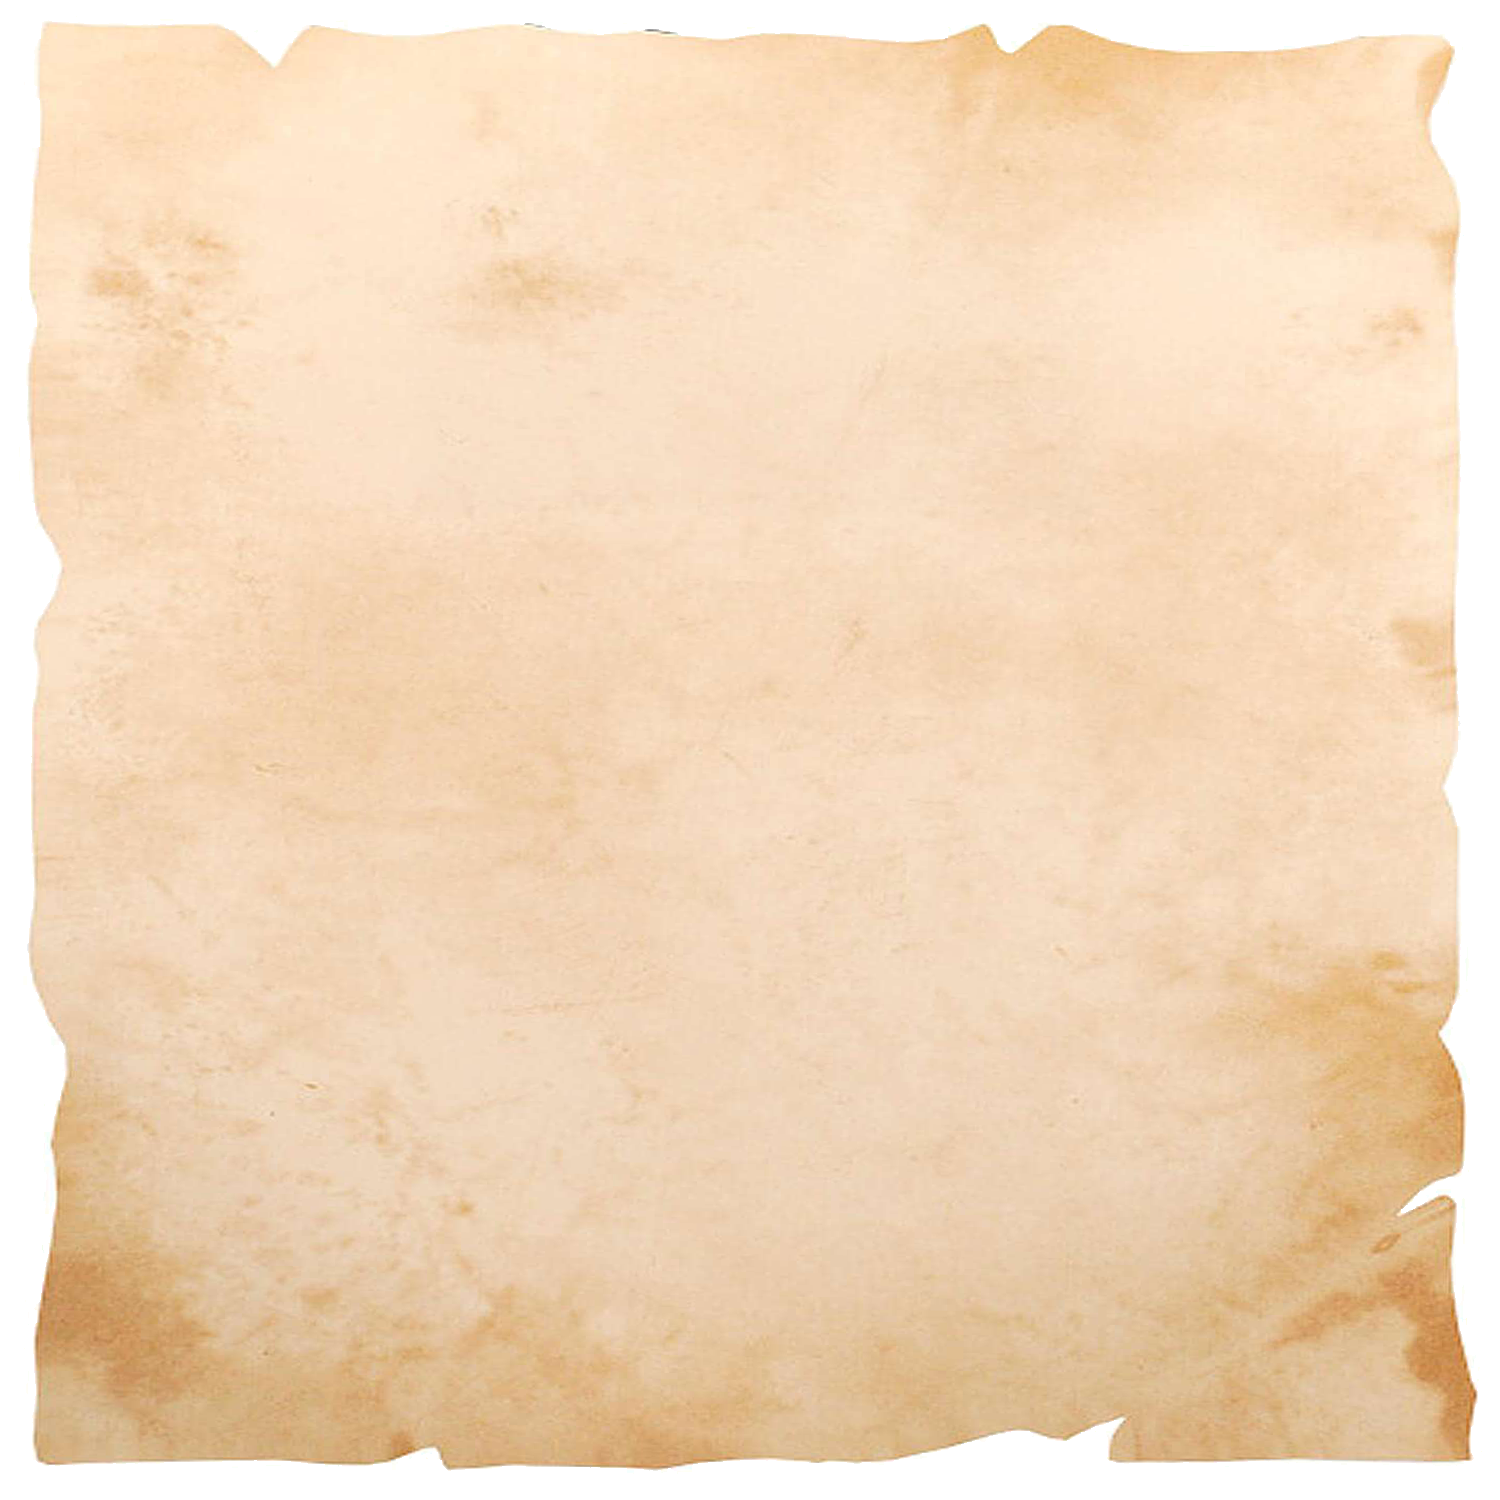
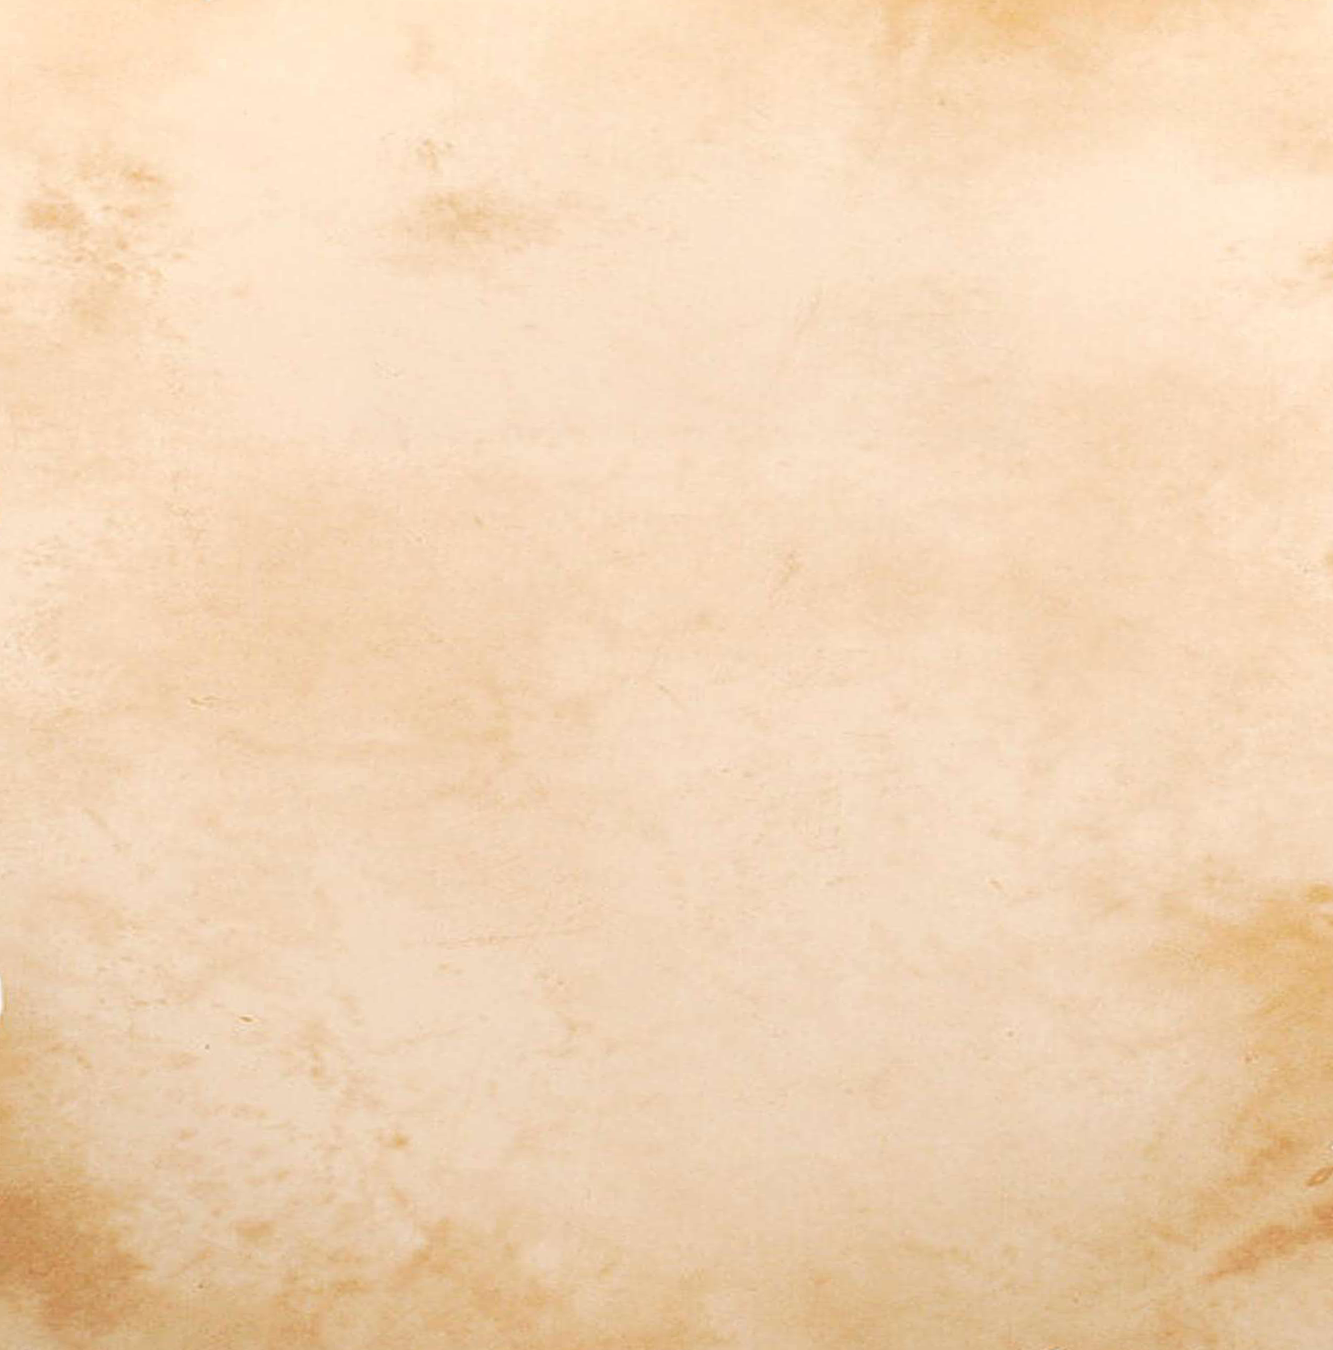
a

diff --git a/wedding.html b/wedding.html
@@ -26,7 +26,7 @@
       </form>
     </div>
     <div class="BOversion">
-      Version 2.4: fixing bg<br />
+      Version 2.5: fixed pics display<br />
       For best performance, please avoid using Internet Explorer
     </div>
     <!--bouncing date, parallax scroll-->
@@ -137,10 +137,10 @@
       </div>
       <div class="memoriesContainer">
 
-        <div class="memoriesImgCell" data-aos="fade" data-aos-duration="600" data-aos-anchor-placement="top-bottom">
+        <div id="pic1" class="memoriesImgCell" data-aos="fade" data-aos-duration="600" data-aos-anchor-placement="top-bottom">
           <img src="pics/y1.jpg" class="responsive-image">
         </div>
-        <div class="memoriesTextCell" data-aos="fade" data-aos-duration="600" data-aos-anchor-placement="top-bottom">
+        <div id="poem1" class="memoriesTextCell" data-aos="fade" data-aos-duration="600" data-aos-anchor-placement="top-bottom">
           <div class="memoriesPoem">
             19, wide-eyed, naïve in love<br />Holding hands we leapt in faith<br />To love and to be loved by
             you<br />A glimpse of love much greater
@@ -148,38 +148,41 @@
         </div>
 
 
-        <div class="memoriesImgCell" data-aos="fade" data-aos-duration="600" data-aos-anchor-placement="top-bottom">
+        <div id="pic2" class="memoriesImgCell" data-aos="fade" data-aos-duration="600" data-aos-anchor-placement="top-bottom">
           <img src="pics/y3.jpg" class="responsive-image">
         </div>
-        <div class="memoriesTextCell" data-aos="fade" data-aos-duration="600" data-aos-anchor-placement="top-bottom">
+        <div id="poem2" class="memoriesTextCell" data-aos="fade" data-aos-duration="600" data-aos-anchor-placement="top-bottom">
           <div class="memoriesPoem">
             But our sinful flesh betrays us<br />Selfish love's not love at all<br />For can two broken lives
             expect<br />Unbrokenness together?
           </div>
         </div>
 
-        <div class="memoriesImgCell" data-aos="fade" data-aos-duration="600" data-aos-anchor-placement="top-bottom">
+        <div id="pic3" class="memoriesImgCell" data-aos="fade" data-aos-duration="600" data-aos-anchor-placement="top-bottom">
           <img src="pics/y4.jpg" class="responsive-image">
         </div>
-        <div class="memoriesTextCell" data-aos="fade" data-aos-duration="600" data-aos-anchor-placement="top-bottom">
+        <div id="poem3" class="memoriesTextCell" data-aos="fade" data-aos-duration="600" data-aos-anchor-placement="top-bottom">
           <div class="memoriesPoem">
             So at the cross on bended knee<br />Our lives in full surrender<br />I cannot give you perfect
             love<br />Only point to One who is
           </div>
         </div>
 
-        <div class="memoriesImgCell" data-aos="fade" data-aos-duration="600" data-aos-anchor-placement="top-bottom">
+        <div id="pic4" class="memoriesImgCell" data-aos="fade" data-aos-duration="600" data-aos-anchor-placement="top-bottom">
           <img src="pics/y4b.jpg" class="responsive-image">
         </div>
-        <div class="memoriesTextCell" data-aos="fade" data-aos-duration="600" data-aos-anchor-placement="top-bottom">
+        <div id="poem4" class="memoriesTextCell" data-aos="fade" data-aos-duration="600" data-aos-anchor-placement="top-bottom">
           <div class="memoriesPoem">
             To love you as Christ loves the church<br />We’ll run this race together<br />We don’t know what
             the future holds<br />But do know He who holds it
           </div>
         </div>
 
-        <div class="memoriesImgCell" data-aos="fade" data-aos-duration="600" data-aos-anchor-placement="top-bottom">
+        <div id="pic5" class="memoriesImgCell" data-aos="fade" data-aos-duration="600" data-aos-anchor-placement="top-bottom">
           <img src="pics/y5.jpg" class="responsive-image">
+        </div>
+
+        <div id="pic6" data-aos="fade" data-aos-duration="600" data-aos-anchor-placement="top-bottom">
         </div>
       </div>
     </div>

diff --git a/stylesheet.css b/stylesheet.css
@@ -451,7 +451,7 @@ h3 {
   justify-content: center;
   background-image: url("pics/parchment_square.png");
   background-position: center;
-  background-size: 38vw 38vw;
+  background-size: cover;
 }
 
 .memoriesPoem {
@@ -472,6 +472,9 @@ h3 {
   margin: 0;
   border-style: none;
   overflow: hidden;
+  display: flex;
+  align-items: center;
+  justify-content: center;
 }
 
 .memoriesImgCell img {
@@ -675,28 +678,44 @@ h3 {
     padding: 3px 1vw;
   }
 
+  .memoriesContainer {
+    background-image: url("pics/parchment_square.png");
+    background-position: center;
+    background-size: cover;
+  }
+
+  #pic1 {-webkit-order: 1; order: 1; }
+  #pic2 {-webkit-order: 2; order: 2; }
+  #pic3 {-webkit-order: 3; order: 3; }
+  #pic4 {-webkit-order: 8; order: 8; }
+  #pic5 {-webkit-order: 9; order: 9; }
+  #pic6 {
+    -webkit-order: 10; 
+    order: 10;
+    width: calc(100%/3);
+    height: 33vw;
+    display: flex;
+    align-items: center;
+    justify-content: center;
+    background-image: url(pics/y5b.jpg);
+    background-size: cover;
+    background-position: center center;
+  }
+
+  #poem1 {-webkit-order: 4; order: 4; margin-top: 18px;}
+  #poem2 {-webkit-order: 5; order: 5; }
+  #poem3 {-webkit-order: 6; order: 6; }
+  #poem4 {-webkit-order: 7; order: 7; margin-bottom: 18px;}
+
   .memoriesTextCell {
     width: 100%;
     height: auto;
-    padding: 20px;
+    padding: 10px;
     background-image: none;
   }
   
   .memoriesPoem {
     font-size: 22px;
-  }
-  
-  .memoriesImgCell {
-    width: 100%;
-    height: 26vw;
-    display: flex;
-    align-items: center;
-    justify-content: center;
-  }
-  
-  .memoriesImgCell img {
-    width: 23vw;
-    height: 23vw;
   }
 
   .detailsCell {
